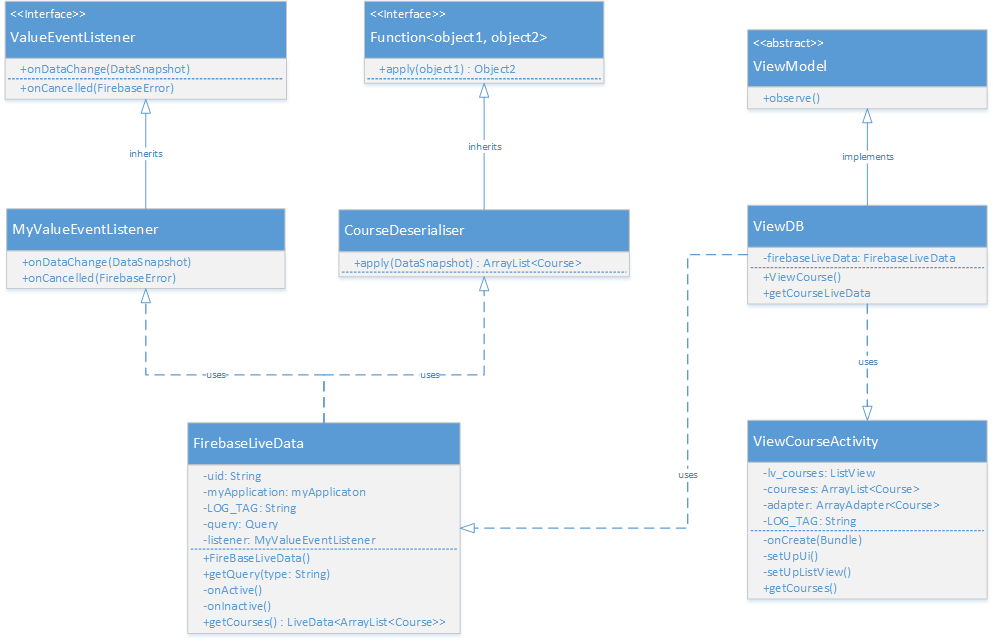
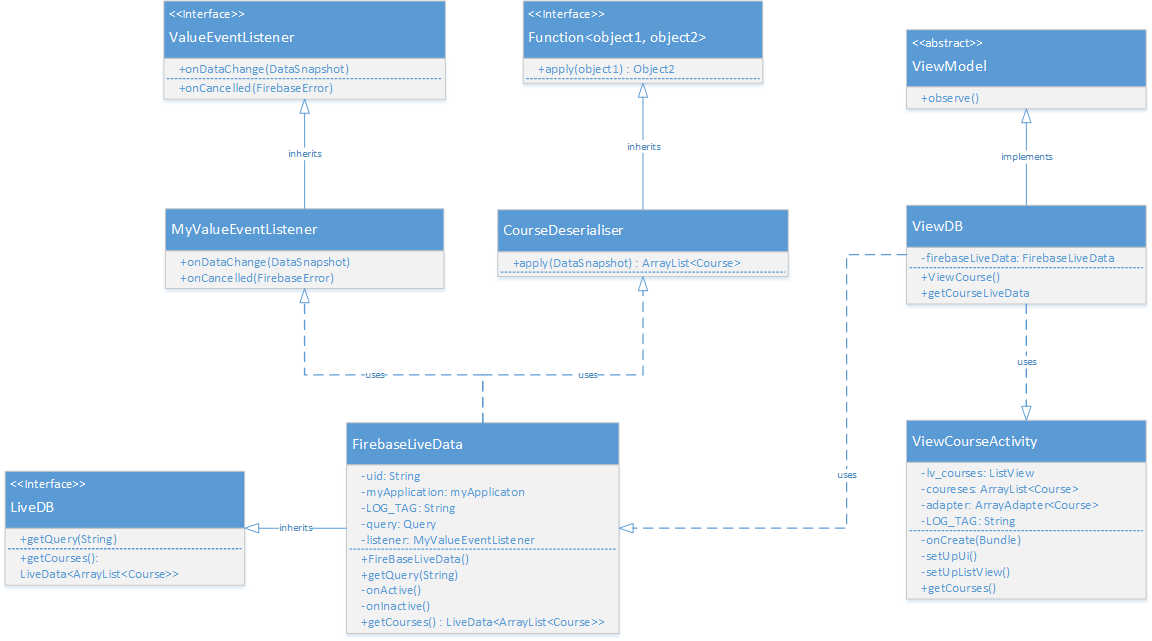
Final changes with code and updated diagrams

diff --git a/app/src/main/java/com/jevon/studentrollrecorder/observers/FirebaseLiveData.java b/app/src/main/java/com/jevon/studentrollrecorder/observers/FirebaseLiveData.java
@@ -10,6 +10,7 @@ import com.firebase.client.Firebase;
 import com.firebase.client.Query;
 import com.firebase.client.ValueEventListener;
 import com.firebase.client.FirebaseError;
+import com.jevon.studentrollrecorder.interfaces.LiveDB;
 import com.jevon.studentrollrecorder.pojo.Course;
 import com.jevon.studentrollrecorder.utils.MyApplication;
 import com.jevon.studentrollrecorder.utils.Utils;
@@ -19,10 +20,10 @@ import java.util.ArrayList;
 /**
  * 04086518
  * Firebase Live Data will replace the firebase Helper function in the long run.
- *
+ *  Uses the Interface LiveDB which will eventually have all the functions necessary
  * Current Implementation is just for Courses.
  **/
-public class FirebaseLiveData extends LiveData<DataSnapshot> {
+public class FirebaseLiveData extends LiveData<DataSnapshot> implements LiveDB {
     /**
      * uid - Current user ID
      * myApplication - current application running.
@@ -49,6 +50,7 @@ public class FirebaseLiveData extends LiveData<DataSnapshot> {
     /**
      * Sets the query depending on what is being pulled.
      */
+    @Override
     public void getQuery(String type){
         switch(type){
             case "course":
@@ -61,6 +63,7 @@ public class FirebaseLiveData extends LiveData<DataSnapshot> {
     /**
      * gets the Courses using the Deserialiser
      */
+    @Override
     public LiveData<ArrayList<Course>> getCourses(){
         return Transformations.map(this, new CourseDeserialiser());
     }

diff --git a/app/src/main/java/com/jevon/studentrollrecorder/helpers/FirebaseHelper.java b/app/src/main/java/com/jevon/studentrollrecorder/helpers/FirebaseHelper.java
@@ -35,7 +35,7 @@ public class FirebaseHelper {
         ref = myApplication.getRef();
         uid = myApplication.getSharedPreferences(Utils.SHAREDPREF, Context.MODE_PRIVATE).getString(Utils.ID,null);
         /*keep a reference to the json tree from the point of the lecturer ID
-        since all DB access for a given lecturer would occur from this point*/
+        since all LiveDB access for a given lecturer would occur from this point*/
         ref_id = ref.child(Utils.LECTURERS).child(uid);
     }
 
@@ -49,7 +49,7 @@ public class FirebaseHelper {
         ref_id.child(course.getCourseCode()).setValue(course);
     }
 
-    //Adds a list of lectures to the DB
+    //Adds a list of lectures to the LiveDB
     public void addLectures(String courseCode, ArrayList<Lecture> lectures){
         ObjectMapper m = new ObjectMapper();
         Map<String,Object> sesMap = new HashMap<>();
@@ -62,7 +62,7 @@ public class FirebaseHelper {
         }
     }
 
-    //records a student as present in the DB
+    //records a student as present in the LiveDB
     public  void markAsPresent(String courseCode, String session_id, String student_id, String student_name){
         int hour = timeHelper.getCurrentHour();
         int minute = timeHelper.getCurrentMinute();

diff --git a/app/src/main/java/com/jevon/studentrollrecorder/observers/ViewCourse.java b/app/src/main/java/com/jevon/studentrollrecorder/observers/ViewCourse.java
@@ -3,6 +3,7 @@ package com.jevon.studentrollrecorder.observers;
 import android.arch.lifecycle.LiveData;
 import android.arch.lifecycle.ViewModel;
 
+import com.jevon.studentrollrecorder.interfaces.LiveDB;
 import com.jevon.studentrollrecorder.pojo.Course;
 
 import java.util.ArrayList;
@@ -11,13 +12,13 @@ import java.util.ArrayList;
  * Will be used as an observer
  */
 public class ViewCourse extends ViewModel {
-    private FirebaseLiveData firebaseLiveData;
+    private LiveDB data;
 
     /**
      * Creata a new instance of FirebaseLiveData
      */
     public ViewCourse(){
-        firebaseLiveData = new FirebaseLiveData();
+        data = new FirebaseLiveData();
     }
 
     /**
@@ -25,7 +26,7 @@ public class ViewCourse extends ViewModel {
      * @return
      */
     public LiveData<ArrayList<Course>> getCourseLiveData(){
-        firebaseLiveData.getQuery("course");
-        return firebaseLiveData.getCourses();
+        data.getQuery("course");
+        return data.getCourses();
     }
 }

diff --git a/app/src/main/java/com/jevon/studentrollrecorder/AddLecturesActivity.java b/app/src/main/java/com/jevon/studentrollrecorder/AddLecturesActivity.java
@@ -74,7 +74,7 @@ public class AddLecturesActivity extends AppCompatActivity {
 
     }
     
-    //get the list of the user's courses from the DB. Needed to check for clashes
+    //get the list of the user's courses from the LiveDB. Needed to check for clashes
     public void getCoursesFromFB(){
         FirebaseHelper fh = new FirebaseHelper();
         Firebase ref_id = fh.getRef_id();
@@ -236,7 +236,7 @@ public class AddLecturesActivity extends AppCompatActivity {
         return super.onOptionsItemSelected(item);
     }
 
-    //saves the list of lectures to the DB
+    //saves the list of lectures to the LiveDB
     private void saveAllLectures(){
         if(lectures.size() > 0){
             FirebaseHelper fh = new FirebaseHelper();

diff --git a/app/src/main/java/com/jevon/studentrollrecorder/service/IdCheckService.java b/app/src/main/java/com/jevon/studentrollrecorder/service/IdCheckService.java
@@ -98,7 +98,7 @@ public class IdCheckService extends Service {
 
 
     /*If there is a lecture scheduled for now and the student is registered for the course
-     record him/her as present in the DB*/
+     record him/her as present in the LiveDB*/
     private void markAsPresentInFirebase(){
         LectureSession currentSession = getCurrentSession();
         if(currentSession !=null){
@@ -167,7 +167,7 @@ public class IdCheckService extends Service {
         sendBroadcast(i);
     }
 
-    //This class represents an actual session as depicted in the DB
+    //This class represents an actual session as depicted in the LiveDB
     private class LectureSession{
         private String sessionID;
         private String courseCode;

diff --git a/app/src/main/java/com/jevon/studentrollrecorder/ViewCoursesActivity.java b/app/src/main/java/com/jevon/studentrollrecorder/ViewCoursesActivity.java
@@ -75,9 +75,7 @@ public class ViewCoursesActivity extends AppCompatActivity{
      */
     public void getCourses(){
         ViewCourse viewModel = new ViewCourse();
-        LiveData<ArrayList<Course>> liveData = viewModel.getCourseLiveData();
-
-        liveData.observe(this, new Observer<ArrayList<Course>>(){
+        viewModel.getCourseLiveData().observe(this, new Observer<ArrayList<Course>>(){
             @Override
             public void onChanged(ArrayList<Course> courses) {
             if (courses.isEmpty() ){

diff --git a/app/src/main/java/com/jevon/studentrollrecorder/interfaces/LiveDB.java b/app/src/main/java/com/jevon/studentrollrecorder/interfaces/LiveDB.java
@@ -1,0 +1,11 @@
+package com.jevon.studentrollrecorder.interfaces;
+
+import android.arch.lifecycle.LiveData;
+import com.jevon.studentrollrecorder.pojo.Course;
+import java.util.ArrayList;
+
+/* Interface for the Database to get courses and anything else */
+public interface LiveDB {
+    LiveData<ArrayList<Course>> getCourses();
+    void getQuery(String type);
+}
